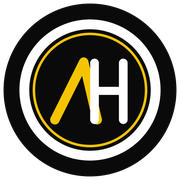
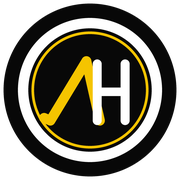
Redraw AH mark v5 with reverse-V A matching storefront
Make the gold A an asymmetric Λ (slanted left leg with foot, near-vertical right stem) per the counter plaque, and cache-bust with ?v=5.

diff --git a/index.html b/index.html
@@ -5,8 +5,8 @@
   <meta name="viewport" content="width=device-width, initial-scale=1">
   <meta name="description" content="AngaalaHub — mobile phones, accessories, repairs and replacements. GROUND FLOOR, NO - 128/1 SHOP NO - 6, KALLAPPA BUILDING, T C PALYA MAIN ROAD, near RAGHAVENDRA CIRCLE, RAMAMURTHY NAGAR, Bengaluru, Karnataka 560016. GSTIN: 29AKXPA8812F1ZT.">
   <title>Angaala Hub | Mobiles, Accessories & Repairs</title>
-  <link rel="icon" href="images/favicon-v4.png?v=4" type="image/png">
-  <link rel="apple-touch-icon" href="images/ah-mark-v4-180.png?v=4">
+  <link rel="icon" href="images/favicon-v5.png?v=5" type="image/png">
+  <link rel="apple-touch-icon" href="images/ah-mark-v5-180.png?v=5">
   <style>
     :root{--ink:#2a1a0a;--muted:#7a5a3a;--blue:#f5a623;--blue-dark:#e07a12;--teal:#ff8c1a;--accent:#ffcc00;--soft:#fff8eb;--line:#f0d9a8;--white:#fff;--shadow:0 18px 50px rgba(224,122,18,.18);}
     *{box-sizing:border-box}html{scroll-behavior:smooth}body{margin:0;color:var(--ink);font-family:Inter,ui-sans-serif,system-ui,-apple-system,BlinkMacSystemFont,"Segoe UI",sans-serif;line-height:1.55;background:#fff}a{color:inherit;text-decoration:none}.container{width:min(1120px,calc(100% - 32px));margin:auto}
@@ -24,8 +24,8 @@
 </style>
 </head>
 <body>
-  <div class="topbar"><div class="container"><span>Friendly local service · AngaalaHub</span><a class="topbar-call" href="tel:+917619514677"><img src="images/ah-mark-v4-64.png?v=4" alt="" width="18" height="18">Call us: +91 76195 14677</a></div></div>
-  <header><div class="container nav"><a class="brand" href="#top" aria-label="Angaala Hub home"><span class="brand-mark"><img src="images/ah-mark-v4.png?v=4" alt="Angaala Hub logo" width="38" height="38"></span>Angaala Hub</a><nav aria-label="Main navigation"><a href="#products">Products</a><a href="#gallery">Gallery</a><a href="#services">Services</a><a href="#visit">Visit us</a><a class="nav-cta" href="https://wa.me/917619514677?text=Hello%20Angaala%20Hub"><img src="images/whatsapp-icon-64.png" alt="" width="20" height="20">WhatsApp us</a></nav></div></header>
+  <div class="topbar"><div class="container"><span>Friendly local service · AngaalaHub</span><a class="topbar-call" href="tel:+917619514677"><img src="images/ah-mark-v5-64.png?v=5" alt="" width="18" height="18">Call us: +91 76195 14677</a></div></div>
+  <header><div class="container nav"><a class="brand" href="#top" aria-label="Angaala Hub home"><span class="brand-mark"><img src="images/ah-mark-v5.png?v=5" alt="Angaala Hub logo" width="38" height="38"></span>Angaala Hub</a><nav aria-label="Main navigation"><a href="#products">Products</a><a href="#gallery">Gallery</a><a href="#services">Services</a><a href="#visit">Visit us</a><a class="nav-cta" href="https://wa.me/917619514677?text=Hello%20Angaala%20Hub"><img src="images/whatsapp-icon-64.png" alt="" width="20" height="20">WhatsApp us</a></nav></div></header>
   <main id="top">
     <section class="hero"><div class="container hero-grid"><div><span class="eyebrow"><span></span>Your neighborhood mobile shop</span><h1>Better phones.<br><em>Better guidance.</em></h1><p>Welcome to <strong>Angaala Hub</strong> — your nearby stop for mobile phones, accessories, back covers, repairs, replacements, and other everyday essentials.</p><div class="actions"><a class="btn btn-primary" href="#products">Explore products <span aria-hidden="true">→</span></a><a class="btn btn-outline btn-logo" href="https://wa.me/917619514677?text=Hello%20Angaala%20Hub"><img class="ah-btn-logo" src="images/whatsapp-icon-64.png" alt="" width="22" height="22">Chat on WhatsApp</a></div><div class="hero-note"><div><strong>Local & reliable</strong>Personal help, every visit</div><div><strong>Fair choices</strong>Options for every budget</div></div></div><div class="hero-visual"><div class="phone-card"><div class="phone-screen"><div class="screen-top"><span>ANGAALA HUB</span><span>● ● ●</span></div><div class="screen-copy"><small>SMART PICKS, SIMPLE ADVICE</small><h2>Find your<br>perfect fit.</h2><p>Phones • Covers • Repairs</p></div></div></div><div class="floating-card"><b>Repairs & replacements</b><span>Care that keeps you connected.</span></div></div></div></section>
     <section class="products" id="products"><div class="container"><div class="section-head"><h2>Popular picks</h2><p>Explore a few customer favorites. Visit us for current stock, colors, and honest recommendations.</p></div><div class="product-grid"><article class="product"><div class="product-art"><div class="device"></div></div><div class="product-body"><span class="pill">Smartphone</span><h3>Everyday 5G Phone</h3><span class="price">From ₹14,999</span><p>Bright display, dependable battery, smooth daily use.</p></div></article><article class="product"><div class="product-art"><div class="device" style="background:linear-gradient(145deg,#18392f,#57a68e)"></div></div><div class="product-body"><span class="pill">Smartphone</span><h3>Pro Camera Phone</h3><span class="price">From ₹24,999</span><p>Sharp photos and fast performance for work and play.</p></div></article><article class="product"><div class="product-art"><div class="device" style="background:linear-gradient(145deg,#351d4d,#c270a1)"></div></div><div class="product-body"><span class="pill">Smartphone</span><h3>Value 4G Phone</h3><span class="price">From ₹8,499</span><p>Reliable essentials with excellent value for money.</p></div></article><article class="product"><div class="product-art"><div class="cover"></div></div><div class="product-body"><span class="pill">Back cover</span><h3>Protective Cover</h3><span class="price">From ₹199</span><p>Fresh styles and sturdy protection for your phone.</p></div></article></div></div></section>
@@ -40,8 +40,8 @@
       <figure class="gallery-item"><img src="images/cases-wall.jpg?v=2" alt="Wall display of mobile phone cases and covers" loading="lazy"><figcaption>Back covers</figcaption></figure>
       <figure class="gallery-item"><img src="images/cases-fashion.jpg?v=2" alt="Fashion phone cases on display" loading="lazy"><figcaption>Fashion cases</figcaption></figure>
     </div></div></section>
-<section class="contact" id="visit"><div class="container contact-grid"><div class="contact-info"><h2>Let’s get you connected.</h2><p>Have a question about a phone, accessory, repair, or replacement? Call, message, or drop in for a friendly conversation.</p><div class="details"><div class="detail"><span class="detail-icon">⌖</span><div><b>Visit us</b><span>GROUND FLOOR, NO - 128/1 SHOP NO - 6, KALLAPPA BUILDING, T C PALYA MAIN ROAD, near RAGHAVENDRA CIRCLE, RAMAMURTHY NAGAR, Bengaluru, Karnataka 560016</span></div></div><div class="detail"><span class="detail-icon">＃</span><div><b>Company</b><span>AngaalaHub</span></div></div><div class="detail"><span class="detail-icon">＃</span><div><b>GSTIN</b><span>29AKXPA8812F1ZT</span></div></div><div class="detail"><span class="detail-icon" style="padding:0;overflow:hidden;background:transparent"><img src="images/ah-mark-v4-64.png?v=4" alt="" width="36" height="36" style="width:100%;height:100%;object-fit:cover;border-radius:10px;display:block"></span><div><b>Call or WhatsApp</b><a href="tel:+917619514677">+91 76195 14677</a></div></div><div class="detail"><span class="detail-icon">✉</span><div><b>Email</b><a href="mailto:info@angaalahub.com">info@angaalahub.com</a></div></div></div><div class="actions" style="margin-top:25px"><a class="btn btn-primary btn-logo" href="https://wa.me/917619514677?text=Hello%20Angaala%20Hub"><img class="ah-btn-logo" src="images/whatsapp-icon-64.png" alt="" width="22" height="22">Message on WhatsApp</a><a class="btn btn-outline" href="mailto:info@angaalahub.com">Email us</a></div></div><div class="contact-card"><h3>Send us a message</h3><p>We’ll get back to you through email — no account or app needed.</p><form action="mailto:info@angaalahub.com" method="post" enctype="text/plain"><label for="name">Your name<input id="name" name="Name" autocomplete="name" required placeholder="Enter your name"></label><label for="phone">Phone number<input id="phone" name="Phone" type="tel" autocomplete="tel" required placeholder="+91 76195 14677"></label><label for="message">How can we help?<textarea id="message" name="Message" required placeholder="Tell us what you are looking for..."></textarea></label><div class="form-buttons"><button class="btn btn-primary" type="submit">Send enquiry</button><a class="btn btn-outline btn-logo" href="https://wa.me/917619514677?text=Hello%20Angaala%20Hub"><img class="ah-btn-logo" src="images/whatsapp-icon-64.png" alt="" width="22" height="22">WhatsApp instead</a></div><p class="form-note">Your email app will open with the message ready to send.</p></form></div></div></section>
+<section class="contact" id="visit"><div class="container contact-grid"><div class="contact-info"><h2>Let’s get you connected.</h2><p>Have a question about a phone, accessory, repair, or replacement? Call, message, or drop in for a friendly conversation.</p><div class="details"><div class="detail"><span class="detail-icon">⌖</span><div><b>Visit us</b><span>GROUND FLOOR, NO - 128/1 SHOP NO - 6, KALLAPPA BUILDING, T C PALYA MAIN ROAD, near RAGHAVENDRA CIRCLE, RAMAMURTHY NAGAR, Bengaluru, Karnataka 560016</span></div></div><div class="detail"><span class="detail-icon">＃</span><div><b>Company</b><span>AngaalaHub</span></div></div><div class="detail"><span class="detail-icon">＃</span><div><b>GSTIN</b><span>29AKXPA8812F1ZT</span></div></div><div class="detail"><span class="detail-icon" style="padding:0;overflow:hidden;background:transparent"><img src="images/ah-mark-v5-64.png?v=5" alt="" width="36" height="36" style="width:100%;height:100%;object-fit:cover;border-radius:10px;display:block"></span><div><b>Call or WhatsApp</b><a href="tel:+917619514677">+91 76195 14677</a></div></div><div class="detail"><span class="detail-icon">✉</span><div><b>Email</b><a href="mailto:info@angaalahub.com">info@angaalahub.com</a></div></div></div><div class="actions" style="margin-top:25px"><a class="btn btn-primary btn-logo" href="https://wa.me/917619514677?text=Hello%20Angaala%20Hub"><img class="ah-btn-logo" src="images/whatsapp-icon-64.png" alt="" width="22" height="22">Message on WhatsApp</a><a class="btn btn-outline" href="mailto:info@angaalahub.com">Email us</a></div></div><div class="contact-card"><h3>Send us a message</h3><p>We’ll get back to you through email — no account or app needed.</p><form action="mailto:info@angaalahub.com" method="post" enctype="text/plain"><label for="name">Your name<input id="name" name="Name" autocomplete="name" required placeholder="Enter your name"></label><label for="phone">Phone number<input id="phone" name="Phone" type="tel" autocomplete="tel" required placeholder="+91 76195 14677"></label><label for="message">How can we help?<textarea id="message" name="Message" required placeholder="Tell us what you are looking for..."></textarea></label><div class="form-buttons"><button class="btn btn-primary" type="submit">Send enquiry</button><a class="btn btn-outline btn-logo" href="https://wa.me/917619514677?text=Hello%20Angaala%20Hub"><img class="ah-btn-logo" src="images/whatsapp-icon-64.png" alt="" width="22" height="22">WhatsApp instead</a></div><p class="form-note">Your email app will open with the message ready to send.</p></form></div></div></section>
   </main>
-  <footer><div class="container footer-row"><strong style="display:inline-flex;align-items:center;gap:8px"><img src="images/ah-mark-v4-64.png?v=4" alt="" width="22" height="22" style="border-radius:5px">AngaalaHub</strong><span>GROUND FLOOR, NO - 128/1 SHOP NO - 6, KALLAPPA BUILDING, T C PALYA MAIN ROAD, near RAGHAVENDRA CIRCLE, RAMAMURTHY NAGAR, Bengaluru, Karnataka 560016 · GSTIN 29AKXPA8812F1ZT</span><span>© 2026 Angaala Hub</span></div></footer>
+  <footer><div class="container footer-row"><strong style="display:inline-flex;align-items:center;gap:8px"><img src="images/ah-mark-v5-64.png?v=5" alt="" width="22" height="22" style="border-radius:5px">AngaalaHub</strong><span>GROUND FLOOR, NO - 128/1 SHOP NO - 6, KALLAPPA BUILDING, T C PALYA MAIN ROAD, near RAGHAVENDRA CIRCLE, RAMAMURTHY NAGAR, Bengaluru, Karnataka 560016 · GSTIN 29AKXPA8812F1ZT</span><span>© 2026 Angaala Hub</span></div></footer>
 </body>
 </html>
